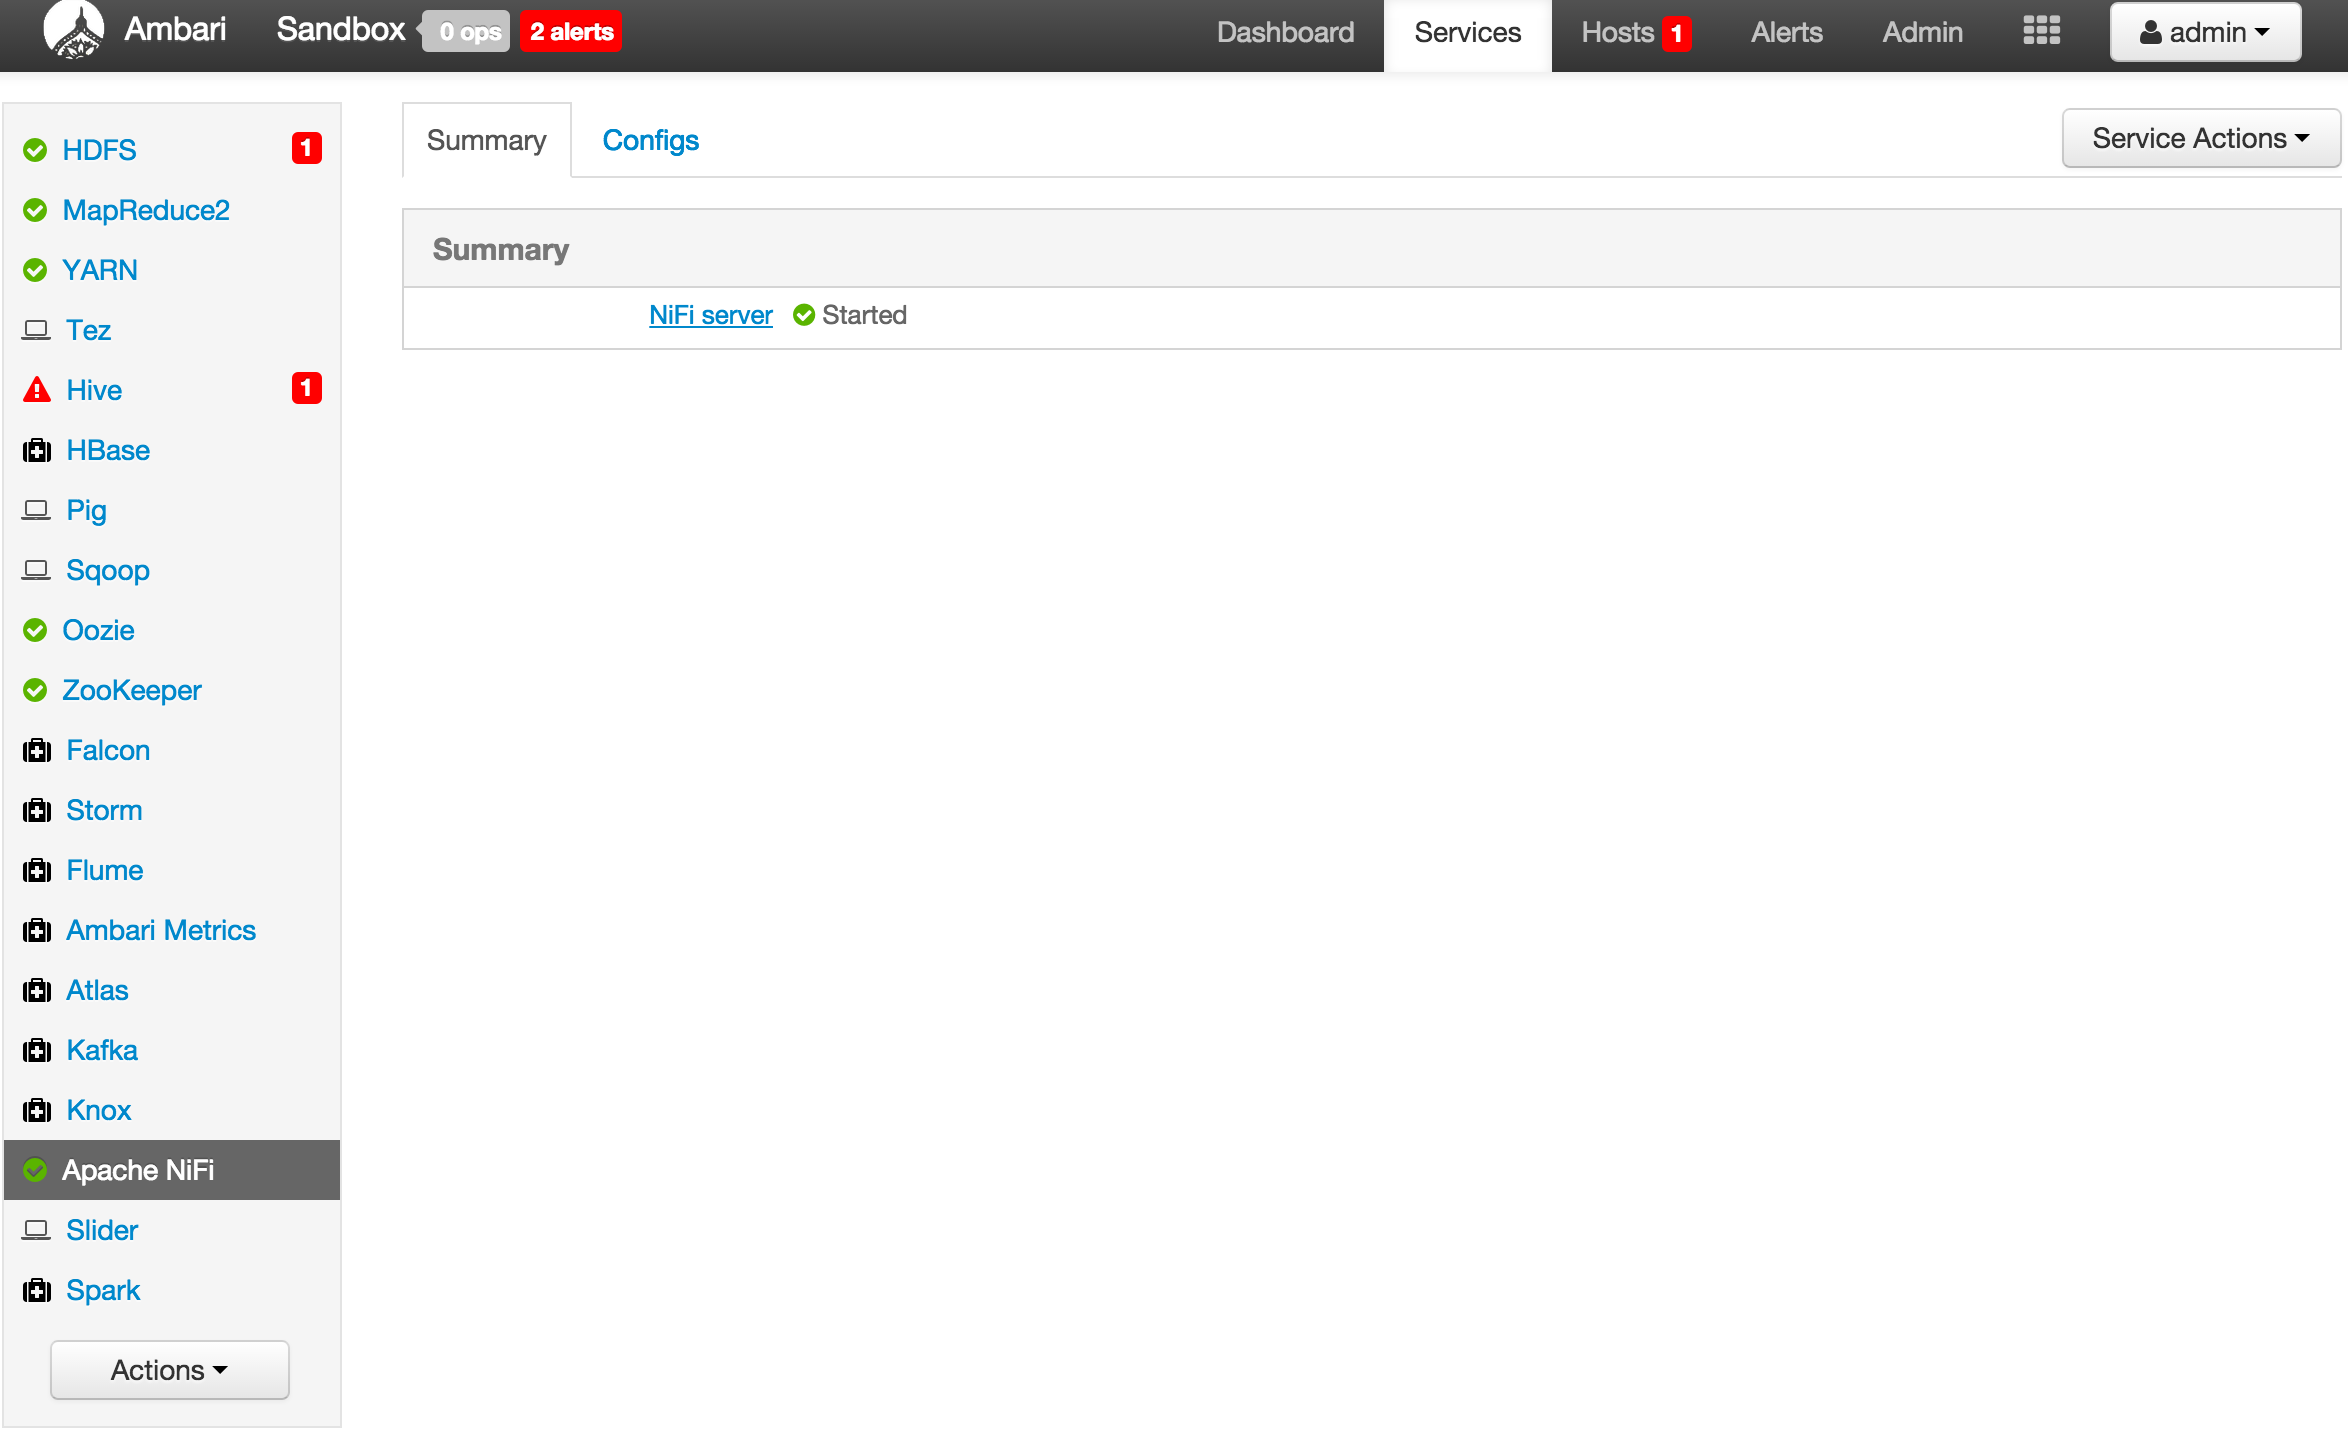
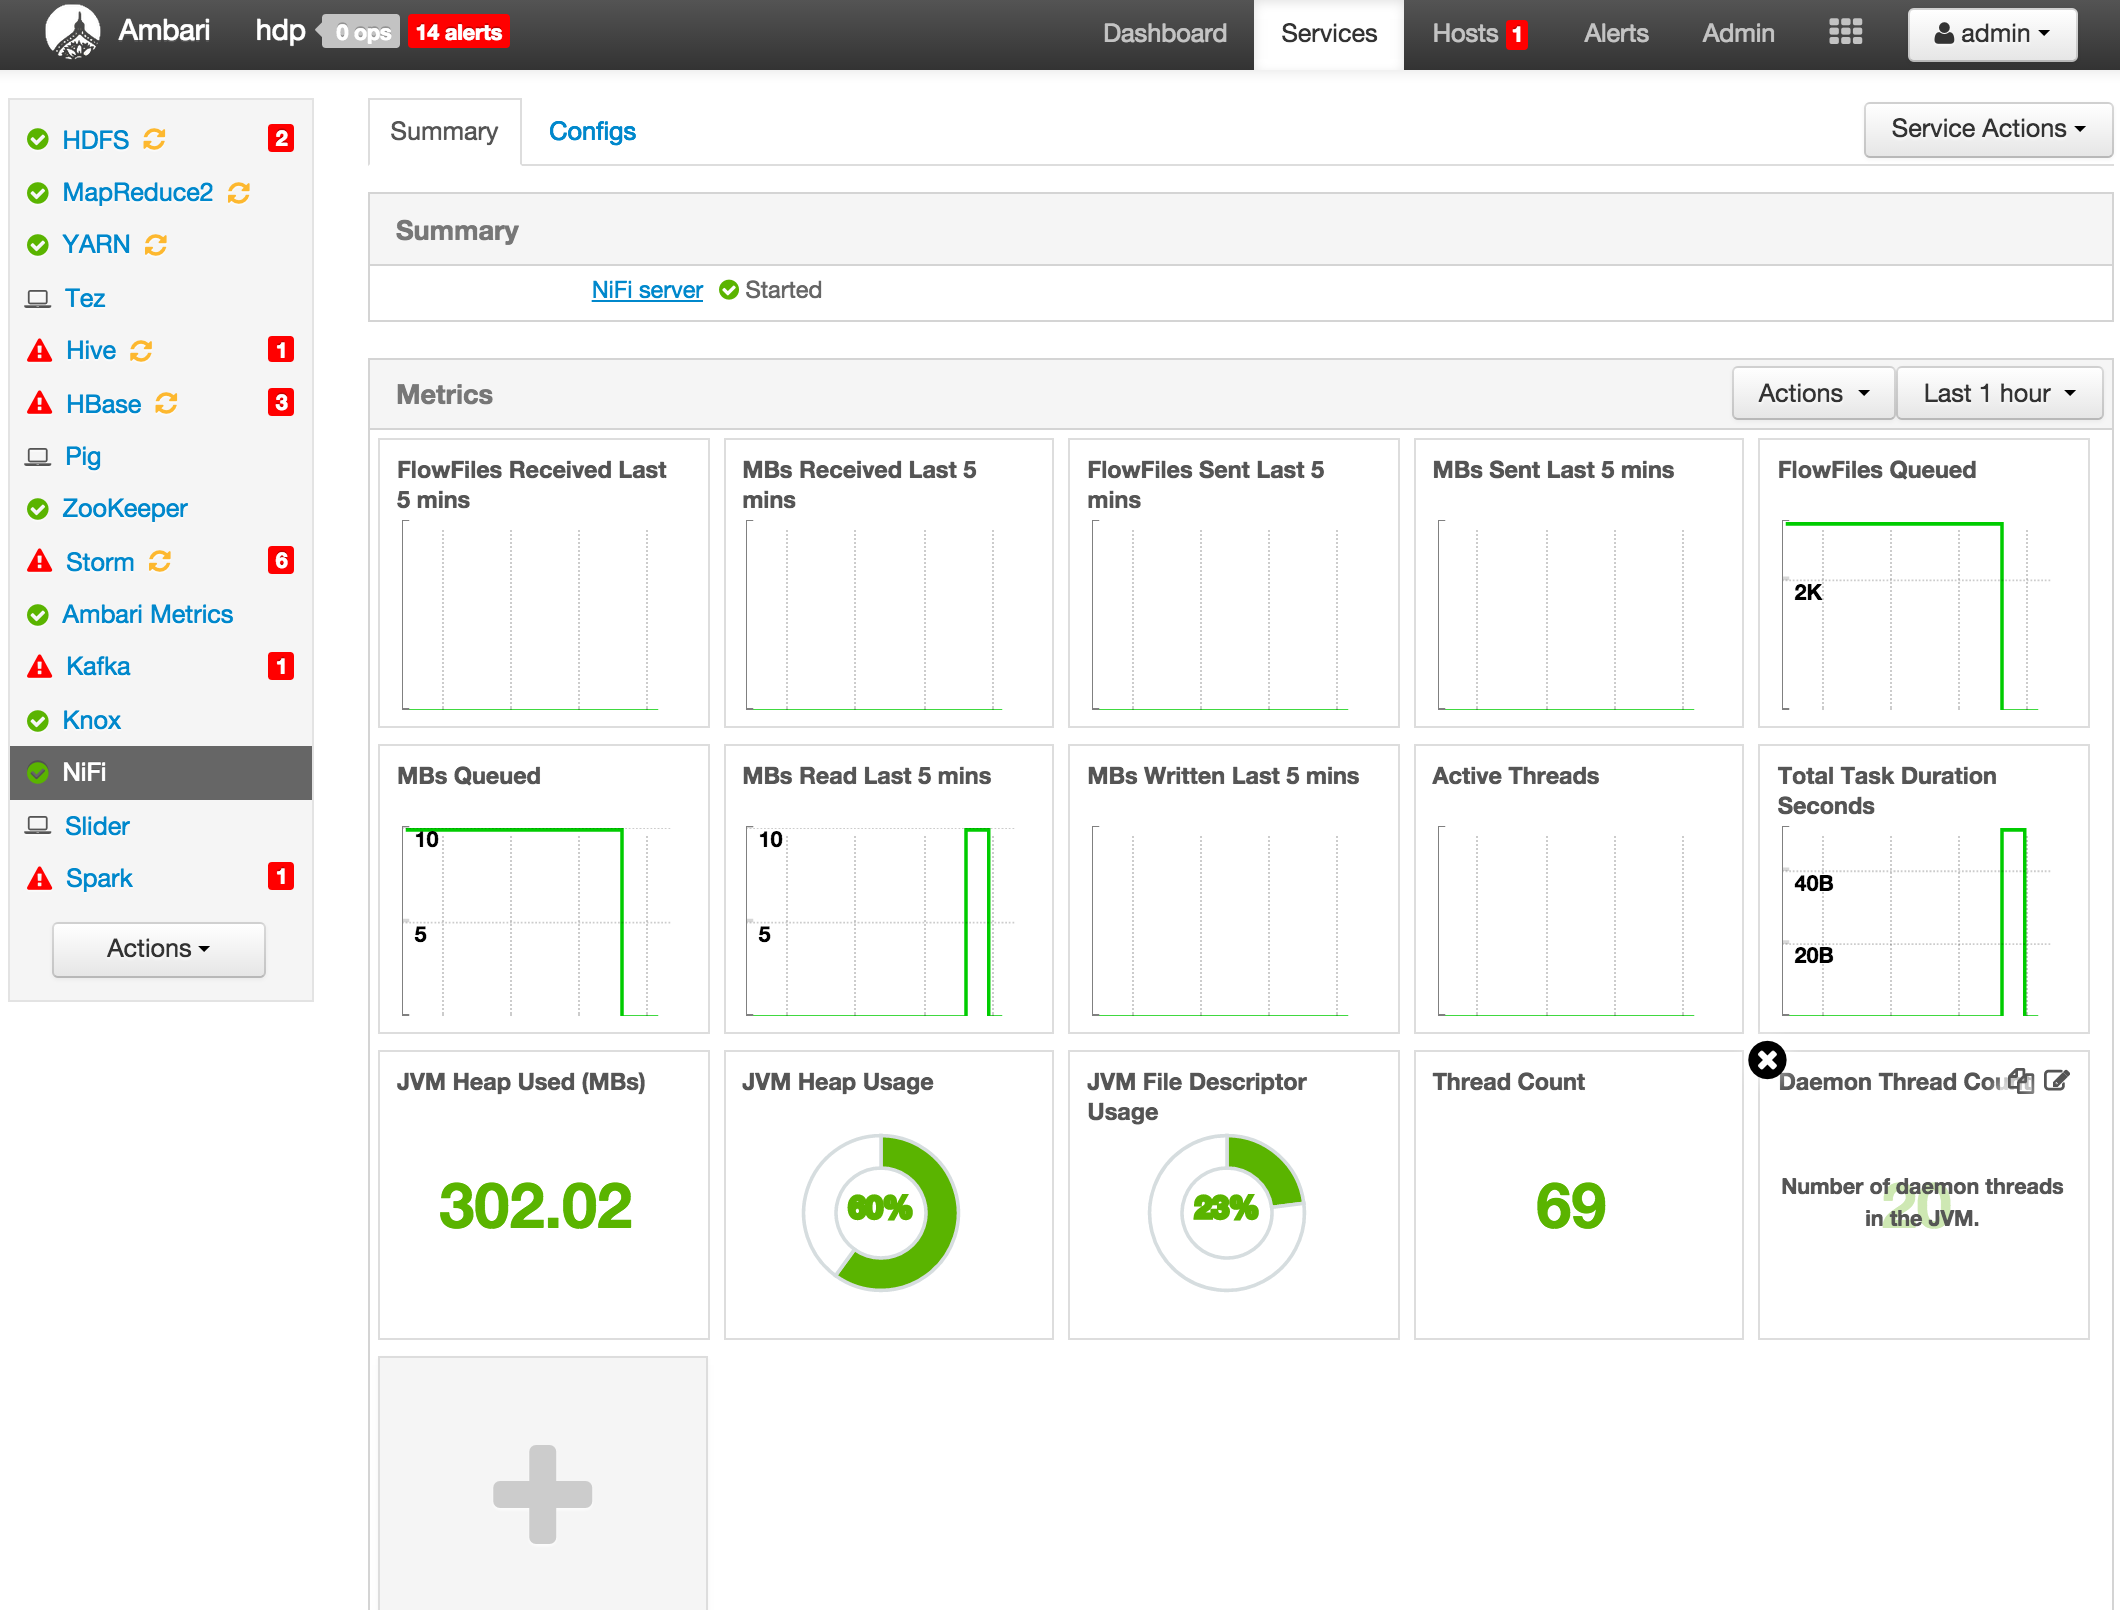
added metrics details

diff --git a/README.md b/README.md
@@ -1,12 +1,13 @@
 #### An Ambari Service for NiFi
-Ambari service for easily installing and managing NiFi on HDP cluster
+Ambari service for easily installing and managing NiFi on HDP cluster and viewing metrics.
 
 Features:
 
 - By default, downloads a prebuilt version of 0.3.0 (to get around the Solr issue)
 - But also gives option to build Nifi from source instead
-- Exposes nifi.properties in Ambari UI (so you can configure port etc)
-- Runs the service as nifi user
+- Exposes nifi.properties, bootstrap.conf in Ambari UI (so you can configure port, memory etc)
+- Sets up initial flow.xml.gz that sets up Ambari reporting task to send Ambari metrics
+- Includes metrics widgets from [here](https://cwiki.apache.org/confluence/display/NIFI/Ambari+Metrics)
 
 Author: [Ali Bajwa](https://www.linkedin.com/in/aliabajwa)
 
@@ -44,6 +45,11 @@ sudo service ambari-server restart
 
 On bottom left -> Actions -> Add service -> check NiFi server -> Next -> Next -> Change any config you like (e.g. install dir, port, setup_prebuilt or values in nifi.properties) -> Next -> Deploy
 
+  - By default:
+    - Port is set to 9090
+    - Max JVM memory size is 512mb
+    - Run schedule for Nifi's Ambari reporting task is 1 min
+  
 - On successful deployment you will see the NiFi service as part of Ambari stack and will be able to start/stop the service from here:
 
 - When you've completed the install process, NiFi server will appear in Ambari 
